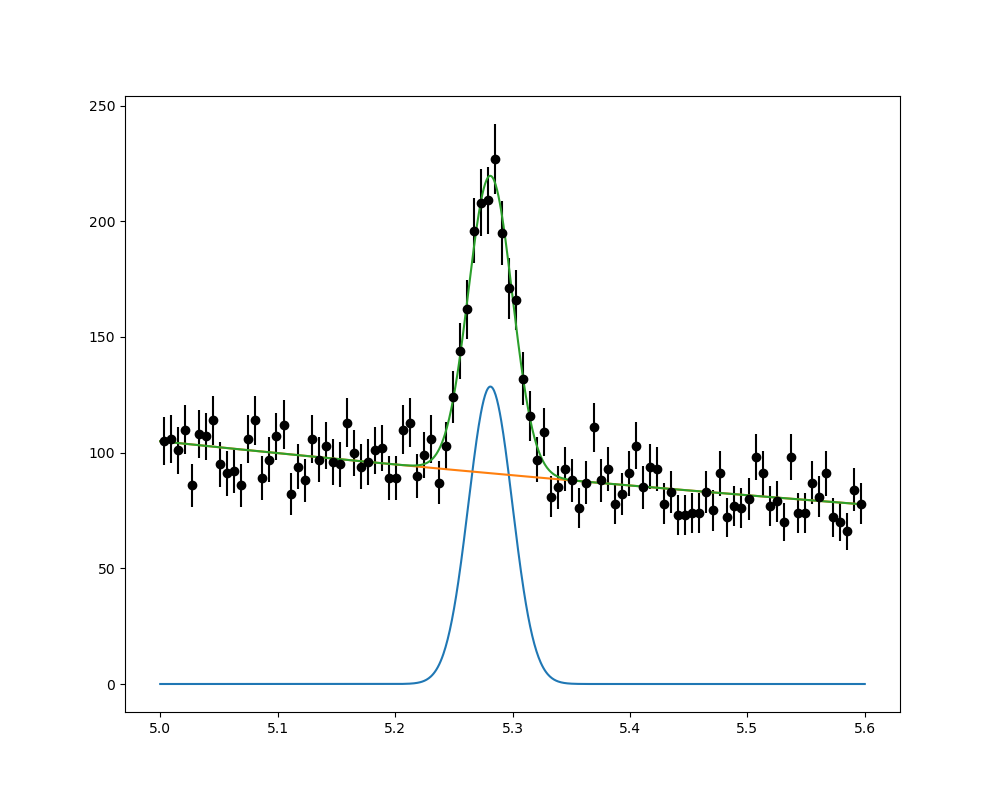
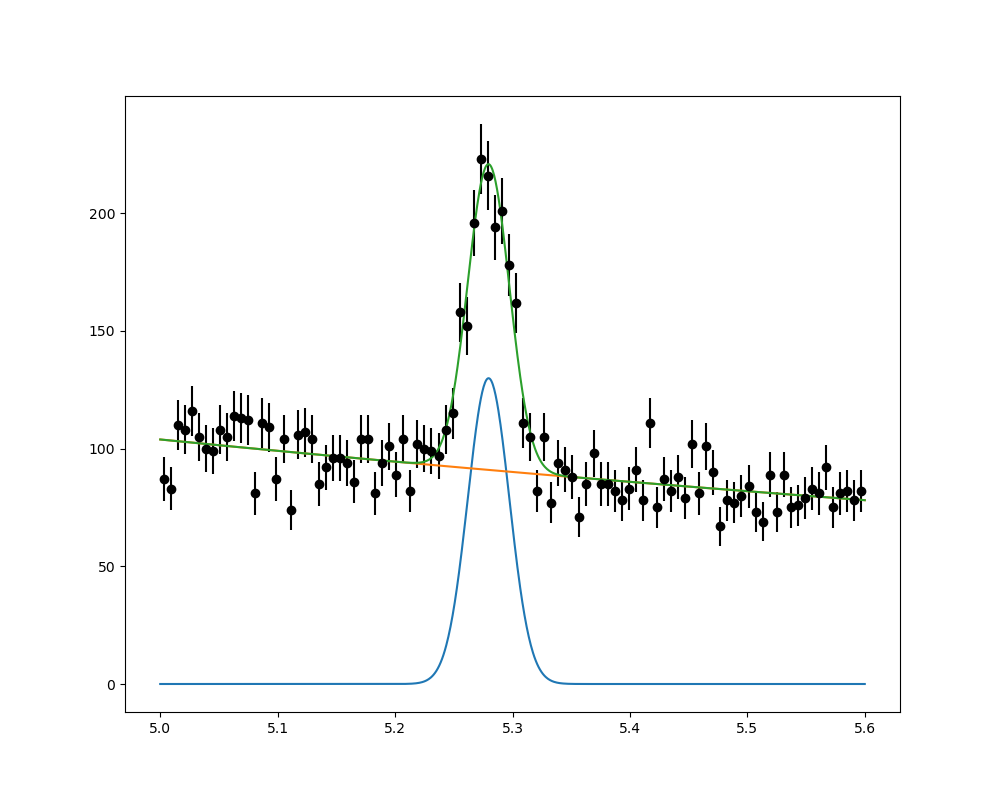
Perf: Implement faster inv cdf sampling, 10x speed up

diff --git a/src/mixed_pdf_tools.py b/src/mixed_pdf_tools.py
@@ -192,75 +192,41 @@ def compute_llr(sample_array):
     return nll_b_value - nll_sb_value
 
 
-N_REJ_SAMPLE_BINS = 10
-REJ_SAMPLE_BINS = np.linspace(5.0, 5.6, N_REJ_SAMPLE_BINS + 1)
-REJ_SAMPLE_WEIGHTS_H1 = cdf_h1_fast(REJ_SAMPLE_BINS[1:]) - cdf_h1_fast(
-    REJ_SAMPLE_BINS[:-1]
+GRANULAR = 5
+input_space = np.linspace(5.0, 5.6, int(10**GRANULAR))
+
+cdf_mixed_approx_h1 = cdf_norm_expon_mixed(
+    input_space, 0.1, 0.5, 5.28, 0.018, 5.0, 5.6
 )
-REJ_SAMPLE_YMAX_H1 = np.zeros(N_REJ_SAMPLE_BINS)
-for bin_idx in range(N_REJ_SAMPLE_BINS):
-    x = np.linspace(
-        REJ_SAMPLE_BINS[bin_idx], REJ_SAMPLE_BINS[bin_idx + 1], 1000001
+quantiles_h1 = np.linspace(0.0, 1.0, int(10**GRANULAR))
+cdf_mixed_inv_h1_01 = np.zeros(int(10**GRANULAR))
+for quantile_idx, quantile in enumerate(quantiles_h1):
+    cdf_mixed_inv_h1_01[quantile_idx] = (10 ** (-GRANULAR)) * np.sum(
+        cdf_mixed_approx_h1 < quantiles_h1[quantile_idx]
     )
-    REJ_SAMPLE_YMAX_H1[bin_idx] = np.max(pdf_h1_fast(x))
+CDF_MIXED_INV_APPROX_H1 = 5.0 + 0.6 * cdf_mixed_inv_h1_01
+
+cdf_mixed_approx_h0 = cdf_norm_expon_mixed(
+    input_space, 0.0, 0.5, 5.28, 0.018, 5.0, 5.6
+)
+quantiles_h0 = np.linspace(0.0, 1.0, int(10**GRANULAR))
+cdf_mixed_inv_h0_01 = np.zeros(int(10**GRANULAR))
+for quantile_idx, quantile in enumerate(quantiles_h0):
+    cdf_mixed_inv_h0_01[quantile_idx] = (10 ** (-GRANULAR)) * np.sum(
+        cdf_mixed_approx_h0 < quantiles_h0[quantile_idx]
+    )
+CDF_MIXED_INV_APPROX_H0 = 5.0 + 0.6 * cdf_mixed_inv_h0_01
 
 
-def rej_sample_h1_fast(sample_size, max_jobs):
-    subsample_sizes = [
-        int(size) for size in sample_size * REJ_SAMPLE_WEIGHTS_H1
-    ]
-    sample = []
-    for subsample_idx, size in enumerate(subsample_sizes):
-        subsample = []
-        jobs = 0
-        lower, upper = (
-            REJ_SAMPLE_BINS[subsample_idx],
-            REJ_SAMPLE_BINS[subsample_idx + 1],
-        )
-        y_max = REJ_SAMPLE_YMAX_H1[subsample_idx]
-        while (
-            len(subsample) < subsample_sizes[subsample_idx] and jobs < max_jobs
-        ):
-            x = np.random.uniform(lower, upper)
-            y = np.random.uniform(0, y_max)
-            if y < pdf_h1_fast(x):
-                subsample.append(x)
-            jobs += 1
-        sample = sample + subsample
+def sample_h1_fast(sample_size):
+    g = np.random.default_rng(seed=1)
+    uniform_sample = g.integers(low=0, high=(10**GRANULAR), size=sample_size)
+    sample = CDF_MIXED_INV_APPROX_H1[uniform_sample]
     return sample
 
 
-REJ_SAMPLE_WEIGHTS_H0 = cdf_h0_fast(REJ_SAMPLE_BINS[1:]) - cdf_h0_fast(
-    REJ_SAMPLE_BINS[:-1]
-)
-REJ_SAMPLE_YMAX_H0 = np.zeros(N_REJ_SAMPLE_BINS)
-for bin_idx in range(N_REJ_SAMPLE_BINS):
-    x = np.linspace(
-        REJ_SAMPLE_BINS[bin_idx], REJ_SAMPLE_BINS[bin_idx + 1], 1000001
-    )
-    REJ_SAMPLE_YMAX_H0[bin_idx] = np.max(pdf_h0_fast(x))
-
-
-def rej_sample_h0_fast(sample_size, max_jobs):
-    subsample_sizes = [
-        int(size) for size in sample_size * REJ_SAMPLE_WEIGHTS_H0
-    ]
-    sample = []
-    for subsample_idx, size in enumerate(subsample_sizes):
-        subsample = []
-        jobs = 0
-        lower, upper = (
-            REJ_SAMPLE_BINS[subsample_idx],
-            REJ_SAMPLE_BINS[subsample_idx + 1],
-        )
-        y_max = REJ_SAMPLE_YMAX_H0[subsample_idx]
-        while (
-            len(subsample) < subsample_sizes[subsample_idx] and jobs < max_jobs
-        ):
-            x = np.random.uniform(lower, upper)
-            y = np.random.uniform(0, y_max)
-            if y < pdf_h0_fast(x):
-                subsample.append(x)
-            jobs += 1
-        sample = sample + subsample
+def sample_h0_fast(sample_size):
+    g = np.random.default_rng(seed=2)
+    uniform_sample = g.integers(low=0, high=(10**GRANULAR), size=sample_size)
+    sample = CDF_MIXED_INV_APPROX_H0[uniform_sample]
     return sample

diff --git a/src/solve_part_f.py b/src/solve_part_f.py
@@ -1,4 +1,4 @@
-from mixed_pdf_tools import rej_sample_h0_fast, rej_sample_h1_fast, compute_llr
+from mixed_pdf_tools import sample_h0_fast, sample_h1_fast, compute_llr
 import matplotlib.pyplot as plt
 from tqdm import tqdm
 import numpy as np
@@ -9,10 +9,10 @@ def T_simulation(N, N_toys):
     T_sb_sample = np.zeros(N_toys)
     T_b_sample = np.zeros(N_toys)
     for toy_idx in tqdm(range(N_toys)):
-        sample_array_sb = rej_sample_h1_fast(N, 10 * N)
+        sample_array_sb = sample_h1_fast(N)
         T_sb_sample[toy_idx] = compute_llr(sample_array_sb)
 
-        sample_array_b = rej_sample_h0_fast(N, 10 * N)
+        sample_array_b = sample_h0_fast(N)
         T_b_sample[toy_idx] = compute_llr(sample_array_b)
 
     fig, ax = plt.subplots(figsize=(10, 8))

diff --git a/src/solve_part_e.py b/src/solve_part_e.py
@@ -3,12 +3,12 @@ from iminuit import Minuit
 from iminuit.cost import BinnedNLL
 
 from mixed_pdf_tools import (
-    rej_sample_h1_fast,
+    sample_h1_fast,
     cdf_h1_fast,
     plot_signal_background_mixed,
 )
 
-sample_array = rej_sample_h1_fast(10000, 1000000)
+sample_array = sample_h1_fast(10000)
 nh, xe = np.histogram(sample_array, bins=100, range=(5, 5.6))
 
 # Perform binned ML fit of parameters.
